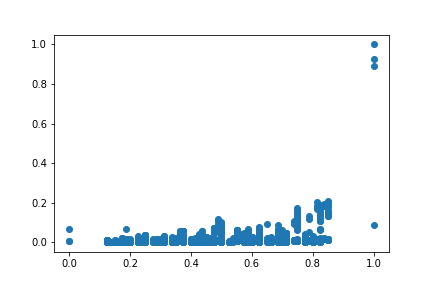
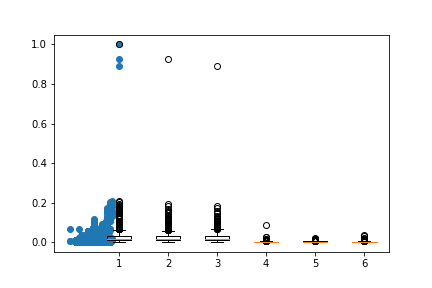
diagrama caixes

diff --git a/Code/DataMining.py b/Code/DataMining.py
@@ -20,6 +20,15 @@ scaler = MinMaxScaler()
 scaler.fit(dataset1)
 dataset1 = scaler.transform(dataset1)
 
+'''Grafic de caixes'''
+caixes = dataset1[:,[17,19]]
+paisos = np.unique(caixes[:,1])
+caixa = []
+for i in paisos:
+    caixa.append([x[0] for x in caixes if x[1] == i])
+plt.boxplot(caixa)
+plt.savefig("../Grafiques/box/diagrama-caixes.png")
+
 idsx.pop(19)
 y = dataset1[:,17]
 x = dataset1[:,idsx]
